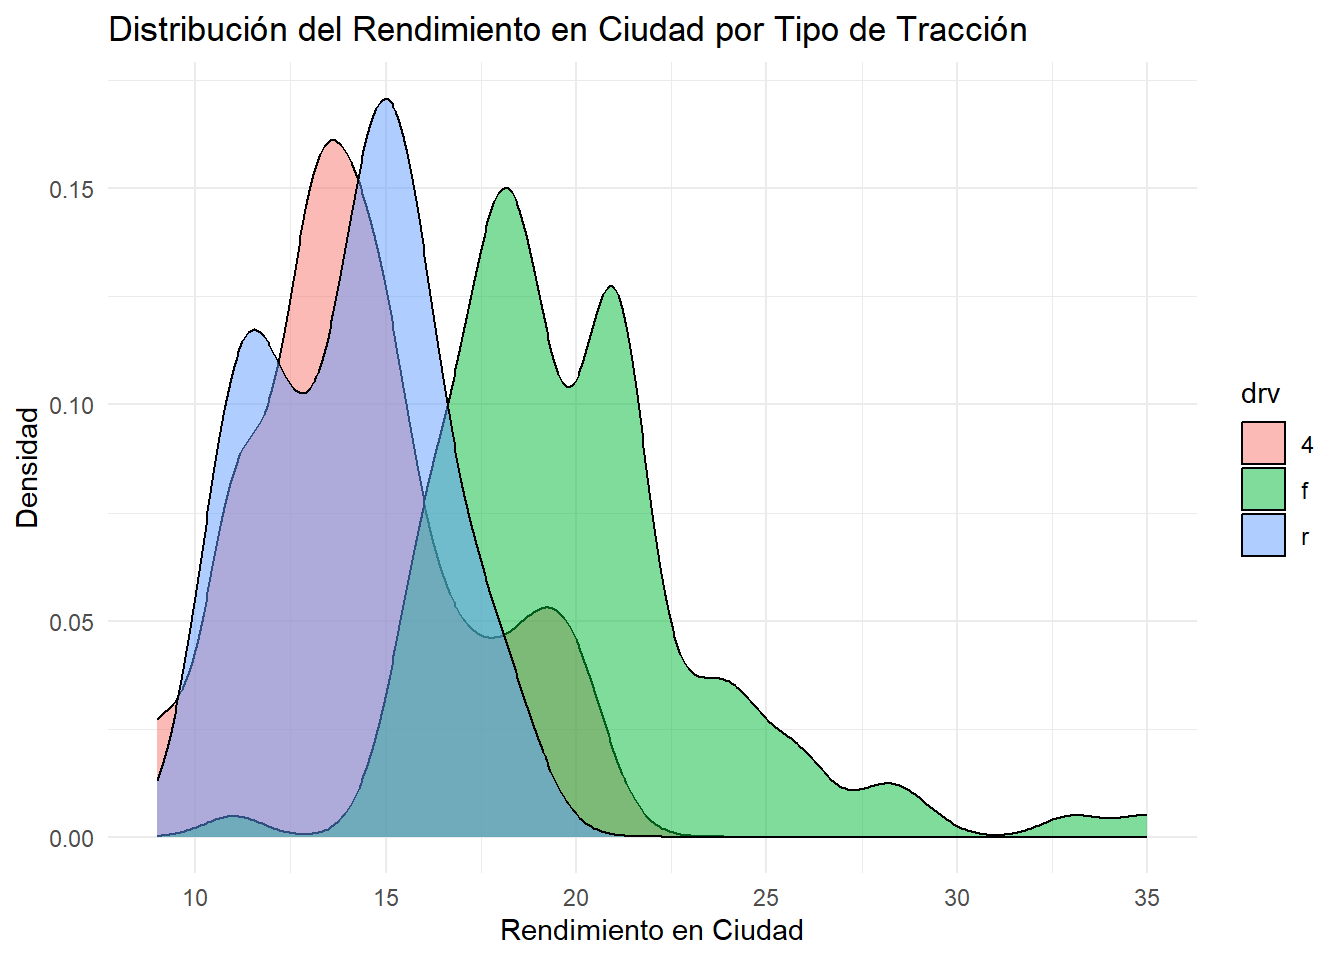
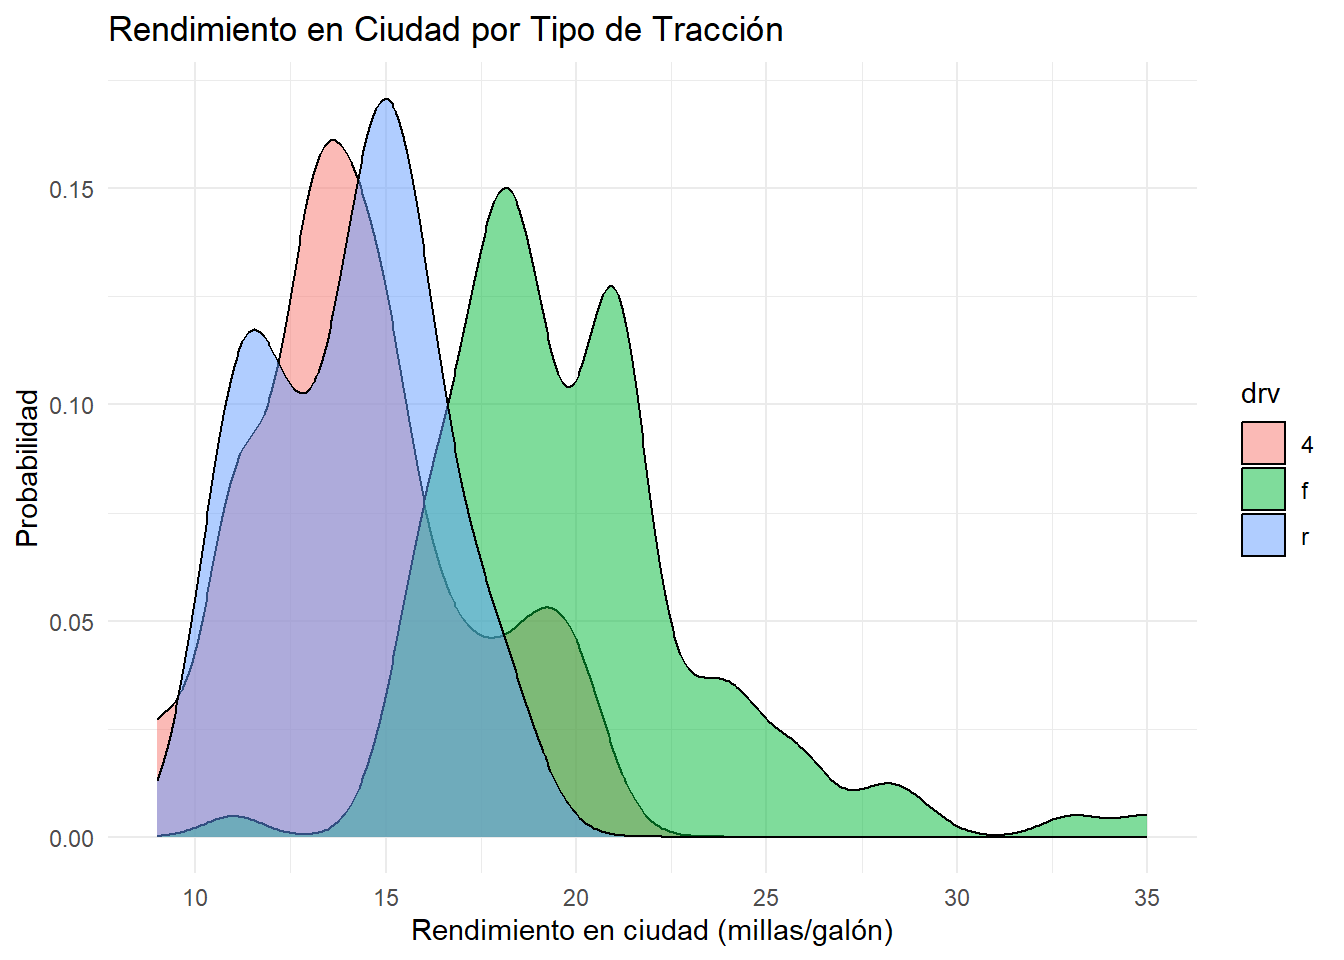
estan hechos los 5 ejercicios faltaria revisar

Changed region(s): [[0.0938, 0.0, 0.75, 0.0625], [0.3125, 0.9375, 0.6562, 1.0], [0.0, 0.4062, 0.0312, 0.5625]]

diff --git a/entrega2.html b/entrega2.html
@@ -263,7 +263,7 @@ code span.wa { color: #60a0b0; font-weight: bold; font-style: italic; } /* Warni
 <span id="cb12-4"><a href="#cb12-4" aria-hidden="true" tabindex="-1"></a>  <span class="fu">labs</span>(</span>
 <span id="cb12-5"><a href="#cb12-5" aria-hidden="true" tabindex="-1"></a>    <span class="at">title =</span> <span class="st">"Relación entre Tamaño del Motor y Rendimiento en Carretera"</span>,</span>
 <span id="cb12-6"><a href="#cb12-6" aria-hidden="true" tabindex="-1"></a>    <span class="at">x =</span> <span class="st">"Tamaño del Motor (litros)"</span>,</span>
-<span id="cb12-7"><a href="#cb12-7" aria-hidden="true" tabindex="-1"></a>    <span class="at">y =</span> <span class="st">"Rendimiento en Carretera (mpg)"</span></span>
+<span id="cb12-7"><a href="#cb12-7" aria-hidden="true" tabindex="-1"></a>    <span class="at">y =</span> <span class="st">"Rendimiento en Carretera (millas/galón)"</span></span>
 <span id="cb12-8"><a href="#cb12-8" aria-hidden="true" tabindex="-1"></a>  ) <span class="sc">+</span></span>
 <span id="cb12-9"><a href="#cb12-9" aria-hidden="true" tabindex="-1"></a>  <span class="fu">theme_minimal</span>()</span></code><button title="Copy to Clipboard" class="code-copy-button"><i class="bi"></i></button></pre></div>
 <div class="cell-output-display">
@@ -275,22 +275,21 @@ code span.wa { color: #60a0b0; font-weight: bold; font-style: italic; } /* Warni
 <section id="comparad-la-distribución-del-rendimiento-en-ciudad-para-distintos-tipos-de-tracción" class="level3">
 <h3 class="anchored" data-anchor-id="comparad-la-distribución-del-rendimiento-en-ciudad-para-distintos-tipos-de-tracción">5) Comparad la distribución del rendimiento en ciudad para distintos tipos de tracción</h3>
 <div class="cell">
-<div class="sourceCode cell-code" id="cb13"><pre class="sourceCode r code-with-copy"><code class="sourceCode r"><span id="cb13-1"><a href="#cb13-1" aria-hidden="true" tabindex="-1"></a><span class="co"># Cargar la biblioteca tidyverse si aún no está cargada</span></span>
-<span id="cb13-2"><a href="#cb13-2" aria-hidden="true" tabindex="-1"></a><span class="fu">library</span>(tidyverse)</span>
-<span id="cb13-3"><a href="#cb13-3" aria-hidden="true" tabindex="-1"></a></span>
-<span id="cb13-4"><a href="#cb13-4" aria-hidden="true" tabindex="-1"></a><span class="co"># Crear el gráfico de densidad para comparar la distribución del rendimiento en ciudad</span></span>
-<span id="cb13-5"><a href="#cb13-5" aria-hidden="true" tabindex="-1"></a><span class="fu">ggplot</span>(<span class="at">data =</span> mpg, <span class="fu">aes</span>(<span class="at">x =</span> cty, <span class="at">fill =</span> drv)) <span class="sc">+</span></span>
-<span id="cb13-6"><a href="#cb13-6" aria-hidden="true" tabindex="-1"></a>  <span class="fu">geom_density</span>(<span class="at">alpha =</span> <span class="fl">0.5</span>) <span class="sc">+</span></span>
-<span id="cb13-7"><a href="#cb13-7" aria-hidden="true" tabindex="-1"></a>  <span class="fu">labs</span>(</span>
-<span id="cb13-8"><a href="#cb13-8" aria-hidden="true" tabindex="-1"></a>    <span class="at">title =</span> <span class="st">"Distribución del Rendimiento en Ciudad por Tipo de Tracción"</span>,</span>
-<span id="cb13-9"><a href="#cb13-9" aria-hidden="true" tabindex="-1"></a>    <span class="at">x =</span> <span class="st">"Rendimiento en Ciudad"</span>,</span>
-<span id="cb13-10"><a href="#cb13-10" aria-hidden="true" tabindex="-1"></a>    <span class="at">y =</span> <span class="st">"Densidad"</span></span>
-<span id="cb13-11"><a href="#cb13-11" aria-hidden="true" tabindex="-1"></a>  ) <span class="sc">+</span></span>
-<span id="cb13-12"><a href="#cb13-12" aria-hidden="true" tabindex="-1"></a>  <span class="fu">theme_minimal</span>()</span></code><button title="Copy to Clipboard" class="code-copy-button"><i class="bi"></i></button></pre></div>
+<div class="sourceCode cell-code" id="cb13"><pre class="sourceCode r code-with-copy"><code class="sourceCode r"><span id="cb13-1"><a href="#cb13-1" aria-hidden="true" tabindex="-1"></a><span class="co"># Representamos la gráfica de la distribución de probabilidad del rendimiento en ciudad para cada tipo de tracción:</span></span>
+<span id="cb13-2"><a href="#cb13-2" aria-hidden="true" tabindex="-1"></a></span>
+<span id="cb13-3"><a href="#cb13-3" aria-hidden="true" tabindex="-1"></a><span class="fu">ggplot</span>(<span class="at">data =</span> mpg, <span class="fu">aes</span>(<span class="at">x =</span> cty, <span class="at">fill =</span> drv)) <span class="sc">+</span></span>
+<span id="cb13-4"><a href="#cb13-4" aria-hidden="true" tabindex="-1"></a>  <span class="fu">geom_density</span>(<span class="at">alpha =</span> <span class="fl">0.5</span>) <span class="sc">+</span></span>
+<span id="cb13-5"><a href="#cb13-5" aria-hidden="true" tabindex="-1"></a>  <span class="fu">labs</span>(</span>
+<span id="cb13-6"><a href="#cb13-6" aria-hidden="true" tabindex="-1"></a>    <span class="at">title =</span> <span class="st">"Rendimiento en Ciudad por Tipo de Tracción"</span>,</span>
+<span id="cb13-7"><a href="#cb13-7" aria-hidden="true" tabindex="-1"></a>    <span class="at">x =</span> <span class="st">"Rendimiento en ciudad (millas/galón)"</span>,</span>
+<span id="cb13-8"><a href="#cb13-8" aria-hidden="true" tabindex="-1"></a>    <span class="at">y =</span> <span class="st">"Probabilidad"</span></span>
+<span id="cb13-9"><a href="#cb13-9" aria-hidden="true" tabindex="-1"></a>  ) <span class="sc">+</span></span>
+<span id="cb13-10"><a href="#cb13-10" aria-hidden="true" tabindex="-1"></a>  <span class="fu">theme_minimal</span>()</span></code><button title="Copy to Clipboard" class="code-copy-button"><i class="bi"></i></button></pre></div>
 <div class="cell-output-display">
 <p><img src="entrega2_files/figure-html/unnamed-chunk-8-1.png" class="img-fluid" width="672"></p>
 </div>
 </div>
+<p>Se observa que la distribución de probabilidad de los vehículos de tracción delantera (f) está centrada a la derecha de las otras dos. Como consecuencia de esto, los vehículos de tracción delantera tienen mayor probabilidad de tener un rendimiento superior en ciudad a los de tracción trasera y doble tracción.</p>
 </section>
 
 </main>
